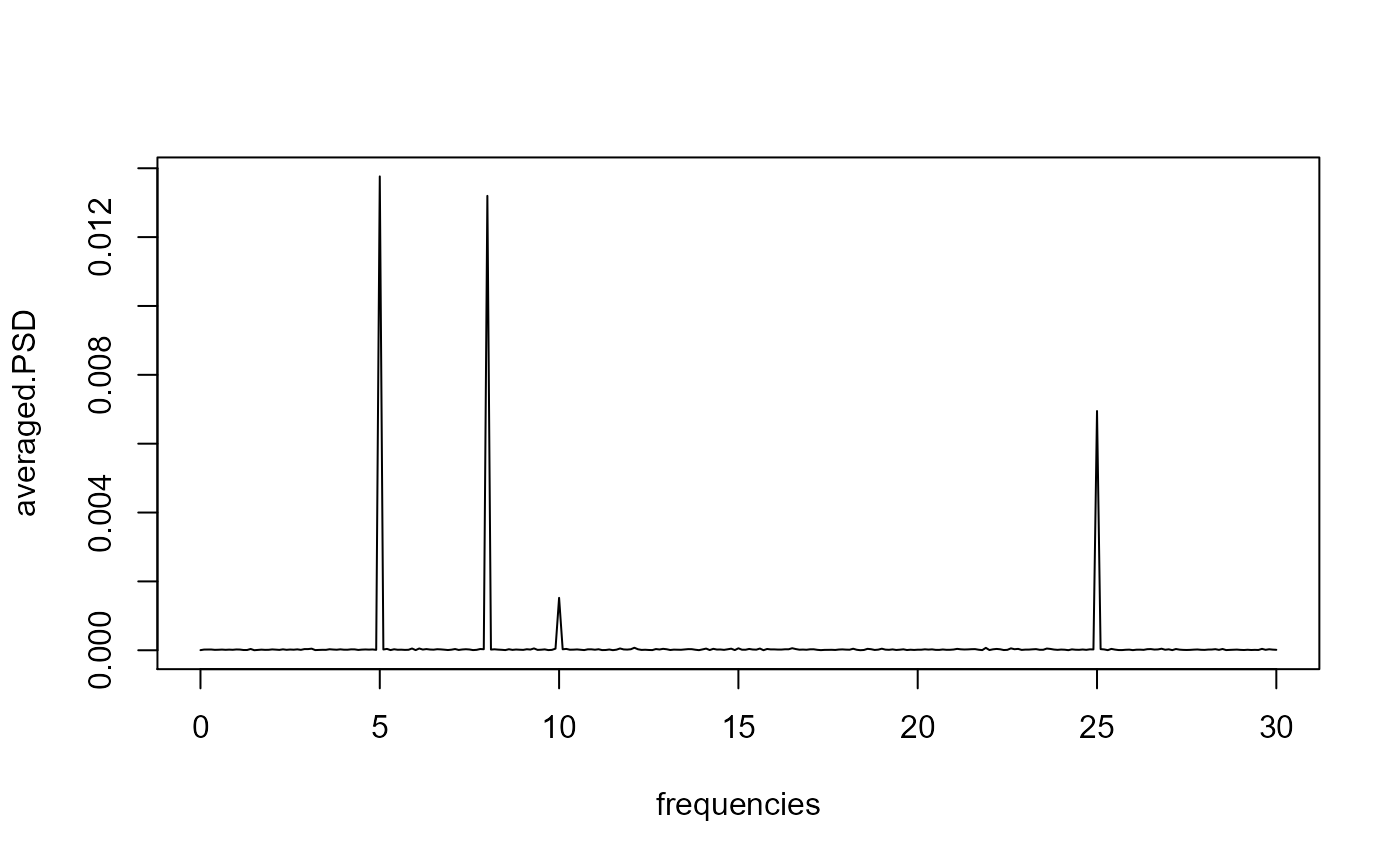
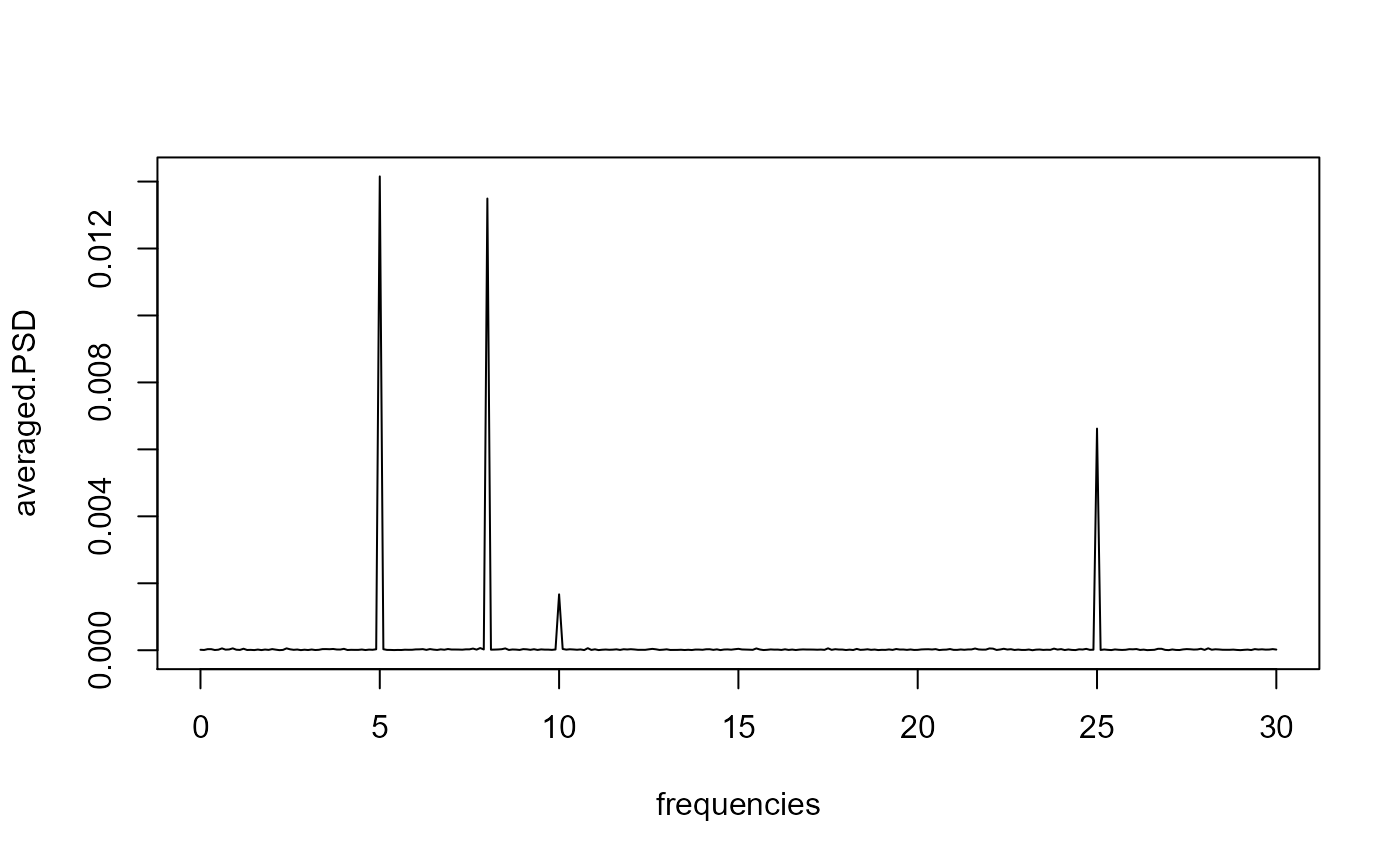
Removed dev.new from examples so that they show up directly in the function reference.
-Added more explanation to the PSD generation code so the math is more clear.

diff --git a/docs/reference/MakeCompositeXYPlotForAllWindows.html b/docs/reference/MakeCompositeXYPlotForAllWindows.html
@@ -225,24 +225,24 @@ to ensure each window has the same x-axis when the averaging step occurs.</p>
 <span class='va'>stddev.y.values</span> <span class='op'>&lt;-</span> <span class='va'>results</span><span class='op'>[[</span><span class='fl'>3</span><span class='op'>]</span><span class='op'>]</span>
 
 <span class='co'>#plot each xy plot individually</span>
-<span class='fu'><a href='https://rdrr.io/r/grDevices/dev.html'>dev.new</a></span><span class='op'>(</span><span class='op'>)</span>
+<span class='co'>#dev.new()</span>
 <span class='fu'><a href='https://rdrr.io/r/graphics/plot.default.html'>plot</a></span><span class='op'>(</span><span class='va'>t</span>, <span class='va'>S1</span>, ylim <span class='op'>=</span> <span class='fu'><a href='https://rdrr.io/r/base/c.html'>c</a></span><span class='op'>(</span><span class='op'>-</span><span class='fl'>5</span>, <span class='fl'>5</span><span class='op'>)</span>, type <span class='op'>=</span> <span class='st'>"l"</span><span class='op'>)</span>
-<span class='fu'><a href='https://rdrr.io/r/graphics/lines.html'>lines</a></span><span class='op'>(</span><span class='va'>t</span>, <span class='va'>S2</span>, col<span class='op'>=</span><span class='st'>"blue"</span><span class='op'>)</span>
-<span class='fu'><a href='https://rdrr.io/r/graphics/lines.html'>lines</a></span><span class='op'>(</span><span class='va'>t</span>, <span class='va'>S3</span>, col<span class='op'>=</span><span class='st'>"green"</span><span class='op'>)</span>
-
+</div><div class='input'><span class='fu'><a href='https://rdrr.io/r/graphics/lines.html'>lines</a></span><span class='op'>(</span><span class='va'>t</span>, <span class='va'>S2</span>, col<span class='op'>=</span><span class='st'>"blue"</span><span class='op'>)</span>
+</div><div class='input'><span class='fu'><a href='https://rdrr.io/r/graphics/lines.html'>lines</a></span><span class='op'>(</span><span class='va'>t</span>, <span class='va'>S3</span>, col<span class='op'>=</span><span class='st'>"green"</span><span class='op'>)</span>
+</div><div class='img'><img src='MakeCompositeXYPlotForAllWindows-1.png' alt='' width='700' height='433' /></div><div class='input'>
 
 <span class='co'>#plot the averaged plot</span>
 <span class='co'>#The only curve remaining should be the 1Hz with amplitude of 4/3.</span>
-<span class='fu'><a href='https://rdrr.io/r/grDevices/dev.html'>dev.new</a></span><span class='op'>(</span><span class='op'>)</span>
+<span class='co'>#dev.new()</span>
 <span class='fu'><a href='https://rdrr.io/r/graphics/plot.default.html'>plot</a></span><span class='op'>(</span><span class='va'>x.values</span>, <span class='va'>y.values</span>, type <span class='op'>=</span> <span class='st'>"l"</span><span class='op'>)</span>
-
+</div><div class='input'>
 <span class='co'>#plot averaged plot with error bars</span>
-<span class='fu'><a href='https://rdrr.io/r/grDevices/dev.html'>dev.new</a></span><span class='op'>(</span><span class='op'>)</span>
+<span class='co'>#dev.new()</span>
 <span class='fu'><a href='https://rdrr.io/r/graphics/plot.default.html'>plot</a></span><span class='op'>(</span><span class='va'>x.values</span>, <span class='va'>y.values</span>, type <span class='op'>=</span> <span class='st'>"l"</span><span class='op'>)</span>
-<span class='co'>#Add error bars</span>
+</div><div class='input'><span class='co'>#Add error bars</span>
 <span class='fu'><a href='https://rdrr.io/r/graphics/arrows.html'>arrows</a></span><span class='op'>(</span><span class='va'>x.values</span>, <span class='va'>y.values</span>, <span class='va'>x.values</span>, <span class='va'>y.values</span> <span class='op'>+</span> <span class='va'>stddev.y.values</span>, length<span class='op'>=</span><span class='fl'>0.05</span>, angle<span class='op'>=</span><span class='fl'>90</span><span class='op'>)</span>
 </div><div class='output co'>#&gt; <span class='warning'>Warning: zero-length arrow is of indeterminate angle and so skipped</span></div><div class='output co'>#&gt; <span class='warning'>Warning: zero-length arrow is of indeterminate angle and so skipped</span></div><div class='output co'>#&gt; <span class='warning'>Warning: zero-length arrow is of indeterminate angle and so skipped</span></div><div class='output co'>#&gt; <span class='warning'>Warning: zero-length arrow is of indeterminate angle and so skipped</span></div><div class='output co'>#&gt; <span class='warning'>Warning: zero-length arrow is of indeterminate angle and so skipped</span></div><div class='output co'>#&gt; <span class='warning'>Warning: zero-length arrow is of indeterminate angle and so skipped</span></div><div class='output co'>#&gt; <span class='warning'>Warning: zero-length arrow is of indeterminate angle and so skipped</span></div><div class='output co'>#&gt; <span class='warning'>Warning: zero-length arrow is of indeterminate angle and so skipped</span></div><div class='output co'>#&gt; <span class='warning'>Warning: zero-length arrow is of indeterminate angle and so skipped</span></div><div class='output co'>#&gt; <span class='warning'>Warning: zero-length arrow is of indeterminate angle and so skipped</span></div><div class='output co'>#&gt; <span class='warning'>Warning: zero-length arrow is of indeterminate angle and so skipped</span></div><div class='output co'>#&gt; <span class='warning'>Warning: zero-length arrow is of indeterminate angle and so skipped</span></div><div class='output co'>#&gt; <span class='warning'>Warning: zero-length arrow is of indeterminate angle and so skipped</span></div><div class='output co'>#&gt; <span class='warning'>Warning: zero-length arrow is of indeterminate angle and so skipped</span></div><div class='output co'>#&gt; <span class='warning'>Warning: zero-length arrow is of indeterminate angle and so skipped</span></div><div class='output co'>#&gt; <span class='warning'>Warning: zero-length arrow is of indeterminate angle and so skipped</span></div><div class='output co'>#&gt; <span class='warning'>Warning: zero-length arrow is of indeterminate angle and so skipped</span></div><div class='output co'>#&gt; <span class='warning'>Warning: zero-length arrow is of indeterminate angle and so skipped</span></div><div class='output co'>#&gt; <span class='warning'>Warning: zero-length arrow is of indeterminate angle and so skipped</span></div><div class='output co'>#&gt; <span class='warning'>Warning: zero-length arrow is of indeterminate angle and so skipped</span></div><div class='input'><span class='fu'><a href='https://rdrr.io/r/graphics/arrows.html'>arrows</a></span><span class='op'>(</span><span class='va'>x.values</span>, <span class='va'>y.values</span>, <span class='va'>x.values</span>, <span class='va'>y.values</span> <span class='op'>-</span> <span class='va'>stddev.y.values</span>, length<span class='op'>=</span><span class='fl'>0.05</span>, angle<span class='op'>=</span><span class='fl'>90</span><span class='op'>)</span>
-</div><div class='output co'>#&gt; <span class='warning'>Warning: zero-length arrow is of indeterminate angle and so skipped</span></div><div class='output co'>#&gt; <span class='warning'>Warning: zero-length arrow is of indeterminate angle and so skipped</span></div><div class='output co'>#&gt; <span class='warning'>Warning: zero-length arrow is of indeterminate angle and so skipped</span></div><div class='output co'>#&gt; <span class='warning'>Warning: zero-length arrow is of indeterminate angle and so skipped</span></div><div class='output co'>#&gt; <span class='warning'>Warning: zero-length arrow is of indeterminate angle and so skipped</span></div><div class='output co'>#&gt; <span class='warning'>Warning: zero-length arrow is of indeterminate angle and so skipped</span></div><div class='output co'>#&gt; <span class='warning'>Warning: zero-length arrow is of indeterminate angle and so skipped</span></div><div class='output co'>#&gt; <span class='warning'>Warning: zero-length arrow is of indeterminate angle and so skipped</span></div><div class='output co'>#&gt; <span class='warning'>Warning: zero-length arrow is of indeterminate angle and so skipped</span></div><div class='output co'>#&gt; <span class='warning'>Warning: zero-length arrow is of indeterminate angle and so skipped</span></div><div class='output co'>#&gt; <span class='warning'>Warning: zero-length arrow is of indeterminate angle and so skipped</span></div><div class='output co'>#&gt; <span class='warning'>Warning: zero-length arrow is of indeterminate angle and so skipped</span></div><div class='output co'>#&gt; <span class='warning'>Warning: zero-length arrow is of indeterminate angle and so skipped</span></div><div class='output co'>#&gt; <span class='warning'>Warning: zero-length arrow is of indeterminate angle and so skipped</span></div><div class='output co'>#&gt; <span class='warning'>Warning: zero-length arrow is of indeterminate angle and so skipped</span></div><div class='output co'>#&gt; <span class='warning'>Warning: zero-length arrow is of indeterminate angle and so skipped</span></div><div class='output co'>#&gt; <span class='warning'>Warning: zero-length arrow is of indeterminate angle and so skipped</span></div><div class='output co'>#&gt; <span class='warning'>Warning: zero-length arrow is of indeterminate angle and so skipped</span></div><div class='output co'>#&gt; <span class='warning'>Warning: zero-length arrow is of indeterminate angle and so skipped</span></div><div class='output co'>#&gt; <span class='warning'>Warning: zero-length arrow is of indeterminate angle and so skipped</span></div><div class='input'>
+</div><div class='output co'>#&gt; <span class='warning'>Warning: zero-length arrow is of indeterminate angle and so skipped</span></div><div class='output co'>#&gt; <span class='warning'>Warning: zero-length arrow is of indeterminate angle and so skipped</span></div><div class='output co'>#&gt; <span class='warning'>Warning: zero-length arrow is of indeterminate angle and so skipped</span></div><div class='output co'>#&gt; <span class='warning'>Warning: zero-length arrow is of indeterminate angle and so skipped</span></div><div class='output co'>#&gt; <span class='warning'>Warning: zero-length arrow is of indeterminate angle and so skipped</span></div><div class='output co'>#&gt; <span class='warning'>Warning: zero-length arrow is of indeterminate angle and so skipped</span></div><div class='output co'>#&gt; <span class='warning'>Warning: zero-length arrow is of indeterminate angle and so skipped</span></div><div class='output co'>#&gt; <span class='warning'>Warning: zero-length arrow is of indeterminate angle and so skipped</span></div><div class='output co'>#&gt; <span class='warning'>Warning: zero-length arrow is of indeterminate angle and so skipped</span></div><div class='output co'>#&gt; <span class='warning'>Warning: zero-length arrow is of indeterminate angle and so skipped</span></div><div class='output co'>#&gt; <span class='warning'>Warning: zero-length arrow is of indeterminate angle and so skipped</span></div><div class='output co'>#&gt; <span class='warning'>Warning: zero-length arrow is of indeterminate angle and so skipped</span></div><div class='output co'>#&gt; <span class='warning'>Warning: zero-length arrow is of indeterminate angle and so skipped</span></div><div class='output co'>#&gt; <span class='warning'>Warning: zero-length arrow is of indeterminate angle and so skipped</span></div><div class='output co'>#&gt; <span class='warning'>Warning: zero-length arrow is of indeterminate angle and so skipped</span></div><div class='output co'>#&gt; <span class='warning'>Warning: zero-length arrow is of indeterminate angle and so skipped</span></div><div class='output co'>#&gt; <span class='warning'>Warning: zero-length arrow is of indeterminate angle and so skipped</span></div><div class='output co'>#&gt; <span class='warning'>Warning: zero-length arrow is of indeterminate angle and so skipped</span></div><div class='output co'>#&gt; <span class='warning'>Warning: zero-length arrow is of indeterminate angle and so skipped</span></div><div class='output co'>#&gt; <span class='warning'>Warning: zero-length arrow is of indeterminate angle and so skipped</span></div><div class='img'><img src='MakeCompositeXYPlotForAllWindows-2.png' alt='' width='700' height='433' /></div><div class='input'>
 
 </div></pre>
   </div>

diff --git a/docs/reference/MakeCompositePSDForAllWindows.html b/docs/reference/MakeCompositePSDForAllWindows.html
@@ -238,15 +238,15 @@ how many windows have been analyzed.</p>
 
 <span class='va'>stddev.PSD</span> <span class='op'>&lt;-</span> <span class='va'>results</span><span class='op'>[[</span><span class='fl'>3</span><span class='op'>]</span><span class='op'>]</span>
 
-<span class='fu'><a href='https://rdrr.io/r/grDevices/dev.html'>dev.new</a></span><span class='op'>(</span><span class='op'>)</span>
+<span class='co'>#dev.new()</span>
 <span class='fu'><a href='https://rdrr.io/r/graphics/plot.default.html'>plot</a></span><span class='op'>(</span><span class='va'>frequencies</span>, <span class='va'>averaged.PSD</span>, type <span class='op'>=</span> <span class='st'>"l"</span><span class='op'>)</span>
-
-<span class='fu'><a href='https://rdrr.io/r/grDevices/dev.html'>dev.new</a></span><span class='op'>(</span><span class='op'>)</span>
+</div><div class='input'>
+<span class='co'>#dev.new()</span>
 <span class='fu'><a href='https://rdrr.io/r/graphics/plot.default.html'>plot</a></span><span class='op'>(</span><span class='va'>frequencies</span>, <span class='va'>averaged.PSD</span>, type <span class='op'>=</span> <span class='st'>"l"</span><span class='op'>)</span>
-<span class='co'>#Add error bars</span>
+</div><div class='input'><span class='co'>#Add error bars</span>
 <span class='fu'><a href='https://rdrr.io/r/graphics/arrows.html'>arrows</a></span><span class='op'>(</span><span class='va'>frequencies</span>, <span class='va'>averaged.PSD</span>, <span class='va'>frequencies</span>, <span class='va'>averaged.PSD</span> <span class='op'>+</span> <span class='va'>stddev.PSD</span>, length<span class='op'>=</span><span class='fl'>0.05</span>, angle<span class='op'>=</span><span class='fl'>90</span><span class='op'>)</span>
 </div><div class='output co'>#&gt; <span class='warning'>Warning: zero-length arrow is of indeterminate angle and so skipped</span></div><div class='output co'>#&gt; <span class='warning'>Warning: zero-length arrow is of indeterminate angle and so skipped</span></div><div class='output co'>#&gt; <span class='warning'>Warning: zero-length arrow is of indeterminate angle and so skipped</span></div><div class='output co'>#&gt; <span class='warning'>Warning: zero-length arrow is of indeterminate angle and so skipped</span></div><div class='output co'>#&gt; <span class='warning'>Warning: zero-length arrow is of indeterminate angle and so skipped</span></div><div class='output co'>#&gt; <span class='warning'>Warning: zero-length arrow is of indeterminate angle and so skipped</span></div><div class='output co'>#&gt; <span class='warning'>Warning: zero-length arrow is of indeterminate angle and so skipped</span></div><div class='output co'>#&gt; <span class='warning'>Warning: zero-length arrow is of indeterminate angle and so skipped</span></div><div class='output co'>#&gt; <span class='warning'>Warning: zero-length arrow is of indeterminate angle and so skipped</span></div><div class='output co'>#&gt; <span class='warning'>Warning: zero-length arrow is of indeterminate angle and so skipped</span></div><div class='output co'>#&gt; <span class='warning'>Warning: zero-length arrow is of indeterminate angle and so skipped</span></div><div class='output co'>#&gt; <span class='warning'>Warning: zero-length arrow is of indeterminate angle and so skipped</span></div><div class='output co'>#&gt; <span class='warning'>Warning: zero-length arrow is of indeterminate angle and so skipped</span></div><div class='output co'>#&gt; <span class='warning'>Warning: zero-length arrow is of indeterminate angle and so skipped</span></div><div class='output co'>#&gt; <span class='warning'>Warning: zero-length arrow is of indeterminate angle and so skipped</span></div><div class='output co'>#&gt; <span class='warning'>Warning: zero-length arrow is of indeterminate angle and so skipped</span></div><div class='output co'>#&gt; <span class='warning'>Warning: zero-length arrow is of indeterminate angle and so skipped</span></div><div class='output co'>#&gt; <span class='warning'>Warning: zero-length arrow is of indeterminate angle and so skipped</span></div><div class='output co'>#&gt; <span class='warning'>Warning: zero-length arrow is of indeterminate angle and so skipped</span></div><div class='output co'>#&gt; <span class='warning'>Warning: zero-length arrow is of indeterminate angle and so skipped</span></div><div class='input'><span class='fu'><a href='https://rdrr.io/r/graphics/arrows.html'>arrows</a></span><span class='op'>(</span><span class='va'>frequencies</span>, <span class='va'>averaged.PSD</span>, <span class='va'>frequencies</span>, <span class='va'>averaged.PSD</span> <span class='op'>-</span> <span class='va'>stddev.PSD</span>, length<span class='op'>=</span><span class='fl'>0.05</span>, angle<span class='op'>=</span><span class='fl'>90</span><span class='op'>)</span>
-</div><div class='output co'>#&gt; <span class='warning'>Warning: zero-length arrow is of indeterminate angle and so skipped</span></div><div class='output co'>#&gt; <span class='warning'>Warning: zero-length arrow is of indeterminate angle and so skipped</span></div><div class='output co'>#&gt; <span class='warning'>Warning: zero-length arrow is of indeterminate angle and so skipped</span></div><div class='output co'>#&gt; <span class='warning'>Warning: zero-length arrow is of indeterminate angle and so skipped</span></div><div class='output co'>#&gt; <span class='warning'>Warning: zero-length arrow is of indeterminate angle and so skipped</span></div><div class='output co'>#&gt; <span class='warning'>Warning: zero-length arrow is of indeterminate angle and so skipped</span></div><div class='output co'>#&gt; <span class='warning'>Warning: zero-length arrow is of indeterminate angle and so skipped</span></div><div class='output co'>#&gt; <span class='warning'>Warning: zero-length arrow is of indeterminate angle and so skipped</span></div><div class='output co'>#&gt; <span class='warning'>Warning: zero-length arrow is of indeterminate angle and so skipped</span></div><div class='output co'>#&gt; <span class='warning'>Warning: zero-length arrow is of indeterminate angle and so skipped</span></div><div class='output co'>#&gt; <span class='warning'>Warning: zero-length arrow is of indeterminate angle and so skipped</span></div><div class='output co'>#&gt; <span class='warning'>Warning: zero-length arrow is of indeterminate angle and so skipped</span></div><div class='output co'>#&gt; <span class='warning'>Warning: zero-length arrow is of indeterminate angle and so skipped</span></div><div class='output co'>#&gt; <span class='warning'>Warning: zero-length arrow is of indeterminate angle and so skipped</span></div><div class='output co'>#&gt; <span class='warning'>Warning: zero-length arrow is of indeterminate angle and so skipped</span></div><div class='output co'>#&gt; <span class='warning'>Warning: zero-length arrow is of indeterminate angle and so skipped</span></div><div class='output co'>#&gt; <span class='warning'>Warning: zero-length arrow is of indeterminate angle and so skipped</span></div><div class='output co'>#&gt; <span class='warning'>Warning: zero-length arrow is of indeterminate angle and so skipped</span></div><div class='output co'>#&gt; <span class='warning'>Warning: zero-length arrow is of indeterminate angle and so skipped</span></div><div class='output co'>#&gt; <span class='warning'>Warning: zero-length arrow is of indeterminate angle and so skipped</span></div><div class='input'>
+</div><div class='output co'>#&gt; <span class='warning'>Warning: zero-length arrow is of indeterminate angle and so skipped</span></div><div class='output co'>#&gt; <span class='warning'>Warning: zero-length arrow is of indeterminate angle and so skipped</span></div><div class='output co'>#&gt; <span class='warning'>Warning: zero-length arrow is of indeterminate angle and so skipped</span></div><div class='output co'>#&gt; <span class='warning'>Warning: zero-length arrow is of indeterminate angle and so skipped</span></div><div class='output co'>#&gt; <span class='warning'>Warning: zero-length arrow is of indeterminate angle and so skipped</span></div><div class='output co'>#&gt; <span class='warning'>Warning: zero-length arrow is of indeterminate angle and so skipped</span></div><div class='output co'>#&gt; <span class='warning'>Warning: zero-length arrow is of indeterminate angle and so skipped</span></div><div class='output co'>#&gt; <span class='warning'>Warning: zero-length arrow is of indeterminate angle and so skipped</span></div><div class='output co'>#&gt; <span class='warning'>Warning: zero-length arrow is of indeterminate angle and so skipped</span></div><div class='output co'>#&gt; <span class='warning'>Warning: zero-length arrow is of indeterminate angle and so skipped</span></div><div class='output co'>#&gt; <span class='warning'>Warning: zero-length arrow is of indeterminate angle and so skipped</span></div><div class='output co'>#&gt; <span class='warning'>Warning: zero-length arrow is of indeterminate angle and so skipped</span></div><div class='output co'>#&gt; <span class='warning'>Warning: zero-length arrow is of indeterminate angle and so skipped</span></div><div class='output co'>#&gt; <span class='warning'>Warning: zero-length arrow is of indeterminate angle and so skipped</span></div><div class='output co'>#&gt; <span class='warning'>Warning: zero-length arrow is of indeterminate angle and so skipped</span></div><div class='output co'>#&gt; <span class='warning'>Warning: zero-length arrow is of indeterminate angle and so skipped</span></div><div class='output co'>#&gt; <span class='warning'>Warning: zero-length arrow is of indeterminate angle and so skipped</span></div><div class='output co'>#&gt; <span class='warning'>Warning: zero-length arrow is of indeterminate angle and so skipped</span></div><div class='output co'>#&gt; <span class='warning'>Warning: zero-length arrow is of indeterminate angle and so skipped</span></div><div class='output co'>#&gt; <span class='warning'>Warning: zero-length arrow is of indeterminate angle and so skipped</span></div><div class='img'><img src='MakeCompositePSDForAllWindows-1.png' alt='' width='700' height='433' /></div><div class='input'>
 
 </div></pre>
   </div>

diff --git a/docs/reference/AutomatedCompositePlotting.html b/docs/reference/AutomatedCompositePlotting.html
@@ -355,9 +355,9 @@ or error envelopes to see the spread of the windows used to make the composite.<
 <span class='va'>ggplot.obj.timeseries</span> <span class='op'>&lt;-</span> <span class='va'>timeseries.results</span><span class='op'>[[</span><span class='fl'>2</span><span class='op'>]</span><span class='op'>]</span>
 
 <span class='co'>#Plot. Will see the 1+2+3 curve as a flat line. The 3+4 curve will only have 2 Hz.</span>
-<span class='fu'><a href='https://rdrr.io/r/grDevices/dev.html'>dev.new</a></span><span class='op'>(</span><span class='op'>)</span>
+<span class='co'>##dev.new()</span>
 <span class='va'>ggplot.obj.timeseries</span>
-
+</div><div class='img'><img src='AutomatedCompositePlotting-1.png' alt='' width='700' height='433' /></div><div class='input'>
 <span class='co'>#PSD-------------------------------------------------------------------------</span>
 
 <span class='co'>#Note that the PSDs are not generated directly from the "Signal 1 + 2 + 3" and</span>
@@ -395,9 +395,9 @@ or error envelopes to see the spread of the windows used to make the composite.<
 <span class='co'>#stronger in both cases because more signals have this frequency (even if amp is negative).</span>
 <span class='co'>#Error envelope is specified for the second (red) curve. Envelope should only</span>
 <span class='co'>#be present for 2 Hz signal.</span>
-<span class='fu'><a href='https://rdrr.io/r/grDevices/dev.html'>dev.new</a></span><span class='op'>(</span><span class='op'>)</span>
+<span class='co'>#dev.new()</span>
 <span class='va'>ggplot.obj.PSD</span>
-
+</div><div class='img'><img src='AutomatedCompositePlotting-2.png' alt='' width='700' height='433' /></div><div class='input'>
 <span class='co'>#PSD Zoomed in---------------------------------------------------------------</span>
 
 <span class='va'>PSD.results</span> <span class='op'>&lt;-</span> <span class='fu'>AutomatedCompositePlotting</span><span class='op'>(</span>list.of.windows <span class='op'>=</span> <span class='va'>windows</span>,
@@ -431,9 +431,9 @@ or error envelopes to see the spread of the windows used to make the composite.<
 <span class='co'>#stronger in both cases because more signals have this frequency (even if amp is negative).</span>
 <span class='co'>#Error envelope is specified for the second (red) curve. Envelope should only</span>
 <span class='co'>#be present for 1 Hz signal.</span>
-<span class='fu'><a href='https://rdrr.io/r/grDevices/dev.html'>dev.new</a></span><span class='op'>(</span><span class='op'>)</span>
+<span class='co'>#dev.new()</span>
 <span class='va'>ggplot.obj.PSD</span>
-
+</div><div class='img'><img src='AutomatedCompositePlotting-3.png' alt='' width='700' height='433' /></div><div class='input'>
 <span class='co'>#LogPSD-------------------------------------------------------------------------</span>
 
 <span class='va'>LogPSD.results</span> <span class='op'>&lt;-</span> <span class='fu'>AutomatedCompositePlotting</span><span class='op'>(</span>list.of.windows <span class='op'>=</span> <span class='va'>windows</span>,
@@ -462,9 +462,9 @@ or error envelopes to see the spread of the windows used to make the composite.<
 <span class='co'>#be stronger in both cases because more signals have this frequency (even if amp is negative).</span>
 <span class='co'>#Error envelope is specified for the second (red) curve. Envelope should only</span>
 <span class='co'>#be present for 2 Hz signal.</span>
-<span class='fu'><a href='https://rdrr.io/r/grDevices/dev.html'>dev.new</a></span><span class='op'>(</span><span class='op'>)</span>
+<span class='co'>#dev.new()</span>
 <span class='va'>ggplot.obj.LogPSD</span>
-
+</div><div class='img'><img src='AutomatedCompositePlotting-4.png' alt='' width='700' height='433' /></div><div class='input'>
 </div></pre>
   </div>
   <div class="col-md-3 hidden-xs hidden-sm" id="pkgdown-sidebar">

diff --git a/docs/reference/PSDIntegrationPerFreqBin.html b/docs/reference/PSDIntegrationPerFreqBin.html
@@ -177,9 +177,9 @@
 
 <span class='va'>PSD</span> <span class='op'>&lt;-</span> <span class='va'>results</span><span class='op'>[[</span><span class='fl'>2</span><span class='op'>]</span><span class='op'>]</span>
 
-<span class='fu'><a href='https://rdrr.io/r/grDevices/dev.html'>dev.new</a></span><span class='op'>(</span><span class='op'>)</span>
+<span class='co'>#dev.new()</span>
 <span class='fu'><a href='https://rdrr.io/r/graphics/plot.default.html'>plot</a></span><span class='op'>(</span><span class='va'>frequencies</span>, <span class='va'>PSD</span>, type <span class='op'>=</span> <span class='st'>"l"</span><span class='op'>)</span>
-
+</div><div class='img'><img src='PSDIntegrationPerFreqBin-1.png' alt='' width='700' height='433' /></div><div class='input'>
 <span class='va'>bins</span> <span class='op'>&lt;-</span> <span class='fu'><a href='https://rdrr.io/r/base/list.html'>list</a></span><span class='op'>(</span>
 <span class='fu'><a href='https://rdrr.io/r/base/c.html'>c</a></span><span class='op'>(</span><span class='fl'>9</span>, <span class='fl'>11</span><span class='op'>)</span>,
 <span class='fu'><a href='https://rdrr.io/r/base/c.html'>c</a></span><span class='op'>(</span><span class='fl'>24</span>,<span class='fl'>26</span><span class='op'>)</span>,

diff --git a/docs/reference/MakeOneSidedAmplitudeSpectrum.html b/docs/reference/MakeOneSidedAmplitudeSpectrum.html
@@ -179,9 +179,9 @@ The vector of amplitudes can be used as the y-axis values of a single sided spec
 
 <span class='va'>amplitudes</span> <span class='op'>&lt;-</span> <span class='va'>results</span><span class='op'>[[</span><span class='fl'>2</span><span class='op'>]</span><span class='op'>]</span>
 
-<span class='fu'><a href='https://rdrr.io/r/grDevices/dev.html'>dev.new</a></span><span class='op'>(</span><span class='op'>)</span>
+<span class='co'>#dev.new()</span>
 <span class='fu'><a href='https://rdrr.io/r/graphics/plot.default.html'>plot</a></span><span class='op'>(</span><span class='va'>frequencies</span>, <span class='va'>amplitudes</span>, type <span class='op'>=</span> <span class='st'>"l"</span><span class='op'>)</span>
-
+</div><div class='img'><img src='MakeOneSidedAmplitudeSpectrum-1.png' alt='' width='700' height='433' /></div><div class='input'>
 
 </div></pre>
   </div>

diff --git a/docs/reference/MakePowerSpectralDensity.html b/docs/reference/MakePowerSpectralDensity.html
@@ -186,9 +186,9 @@ https://endaq.com/pages/power-spectral-density</p>
 
 <span class='va'>PSD</span> <span class='op'>&lt;-</span> <span class='va'>results</span><span class='op'>[[</span><span class='fl'>2</span><span class='op'>]</span><span class='op'>]</span>
 
-<span class='fu'><a href='https://rdrr.io/r/grDevices/dev.html'>dev.new</a></span><span class='op'>(</span><span class='op'>)</span>
+<span class='co'>#dev.new()</span>
 <span class='fu'><a href='https://rdrr.io/r/graphics/plot.default.html'>plot</a></span><span class='op'>(</span><span class='va'>frequencies</span>, <span class='va'>PSD</span>, type <span class='op'>=</span> <span class='st'>"l"</span><span class='op'>)</span>
-
+</div><div class='img'><img src='MakePowerSpectralDensity-1.png' alt='' width='700' height='433' /></div><div class='input'>
 
 </div></pre>
   </div>
